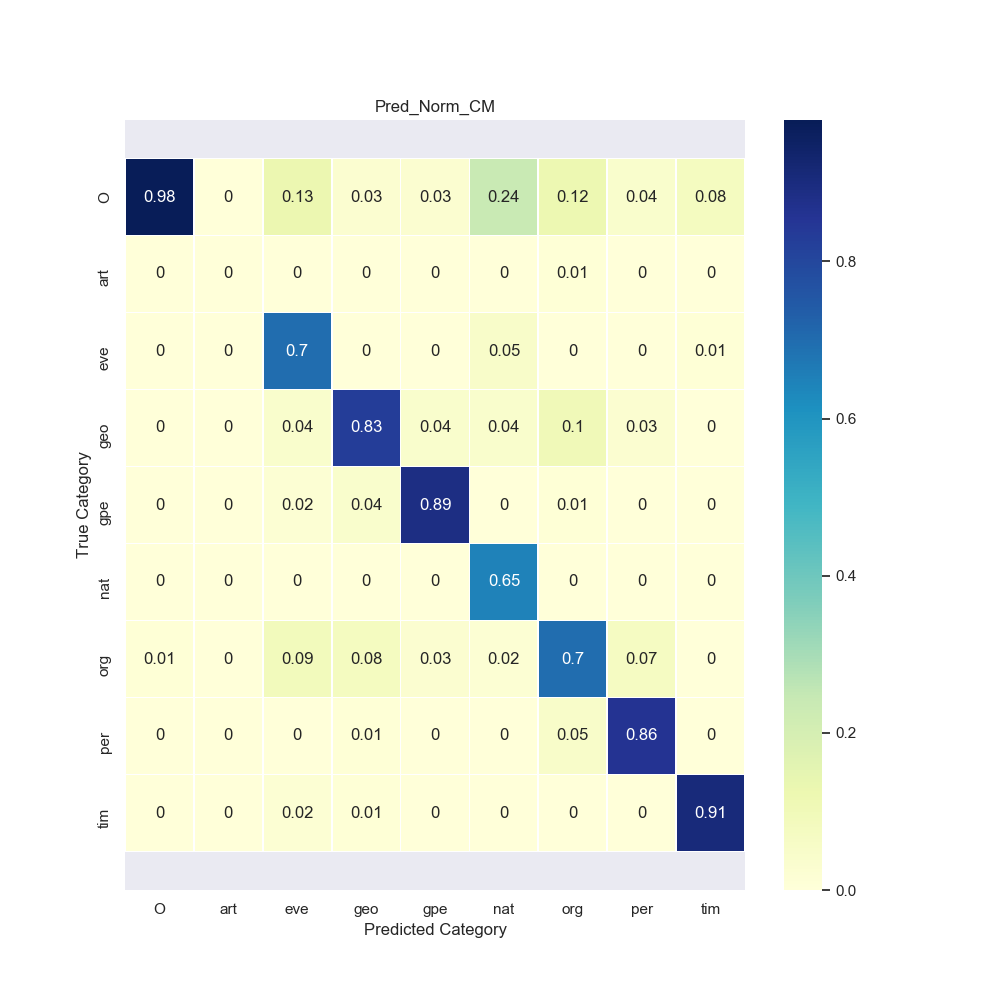
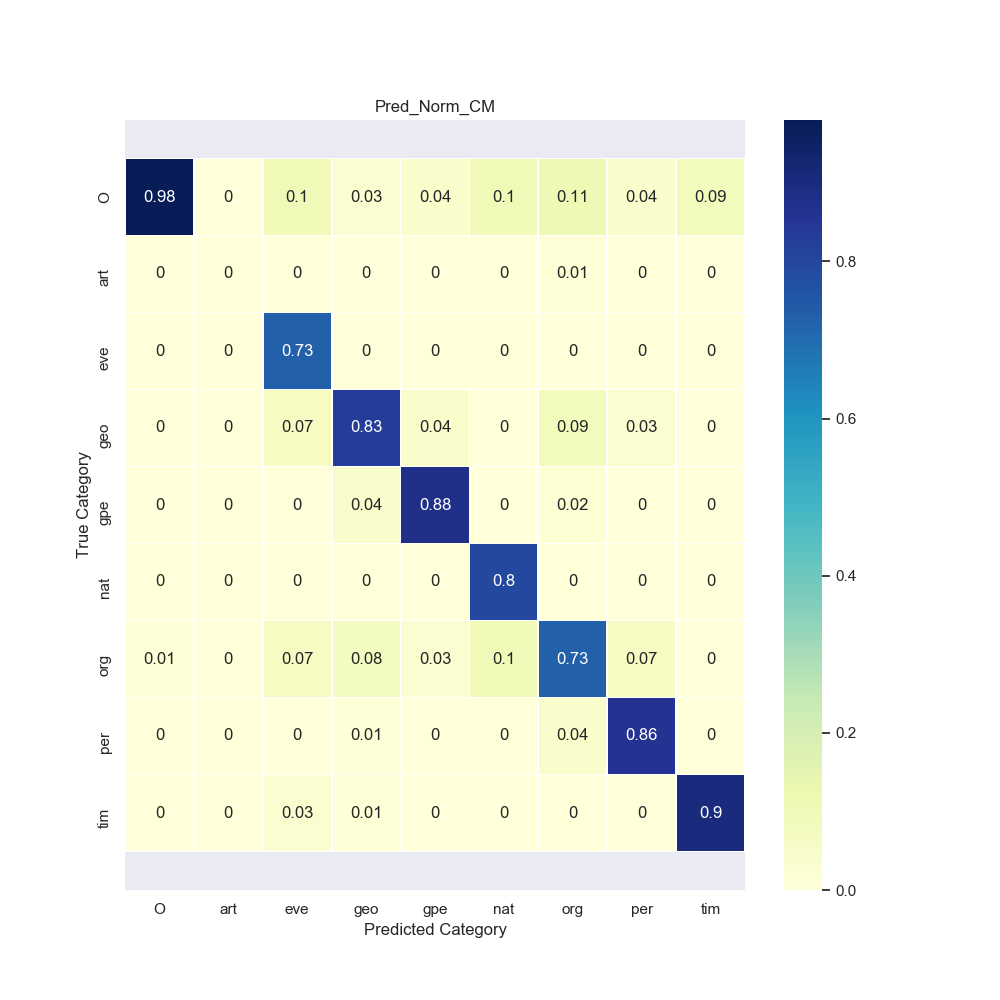
added more results

diff --git a/examples/example_evaluate_model_all.py b/examples/example_evaluate_model_all.py
@@ -5,7 +5,7 @@ from ner.utils import load_config
 from ner.models.bert_ner import BERT_NER
 from ner.model_evaluator import ModelEvaluator
 
-config = load_config(model_config_name='bert_ner_confidence_kl_config.yaml', master_config_name='config.yaml')
+config = load_config(model_config_name='bert_ner_config.yaml', master_config_name='config.yaml')
 
 p = Preprocessor(**config)
 
@@ -13,9 +13,9 @@ labelled_ds, unlabelled_ds, test_ds = p.create_tf_dataset(**config)
 
 model = BERT_NER(**config)
 
-model.load_weights(os.path.join(ner.MODEL_DIR, 'BERT_NER_confidence_kl_final'))
+model.load_weights(os.path.join(ner.MODEL_DIR, 'BERT_NER_final'))
 
-model_evaluator = ModelEvaluator(test_ds,  results_name='BERT_confidence_kl')
+model_evaluator = ModelEvaluator(test_ds,  results_name='BERT')
 
 # model_evaluator.plot_all_latent_images(model, **config)
 

diff --git a/readme.md b/readme.md
@@ -1,6 +1,28 @@
+# Semi-Supervised Named Entity Recognition with BERT and KL Regularizers
+
+### Models:
+- __NER Baseline__: 
+- __BERT NER__: 
+- __BERT NER Confidence KL__: 
+- __BERT NER Data Distribution KL__: 
+
+## Motivation
+
+High Level motivation
+
+### BERT Model
+
+### Confidence KL Regularizer
+
+## Data
+
+## Results
+
 | Model Name  | Accuracy  | Accuracy no O |  Mean F1 | 
 |---|---|---|---|
 | NER Baseline  |   |   |   |
-| BERT NER | 87.82% | 78.33%  |   | 
-| BERT NER Confidence KL  | 87.94%  |  80.75% |   | 
+| BERT NER | 95.90% | 78.41%  | 0.6099 | 
+| BERT NER Confidence KL | 96.05%  |  80.82% | 0.6514  | 
 | BERT NER Data Distribution KL  |   |   |   | 
+
+## Future Work
